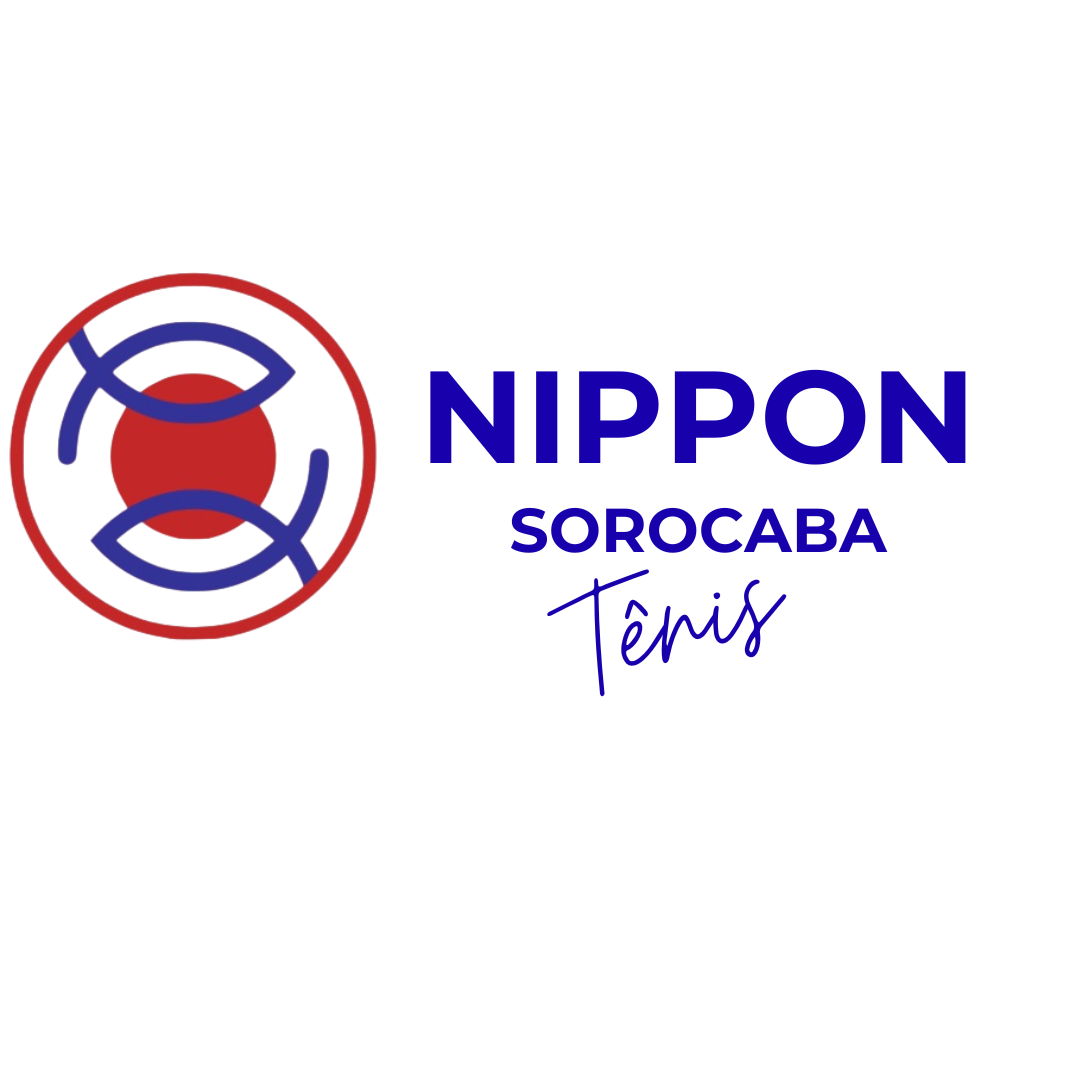
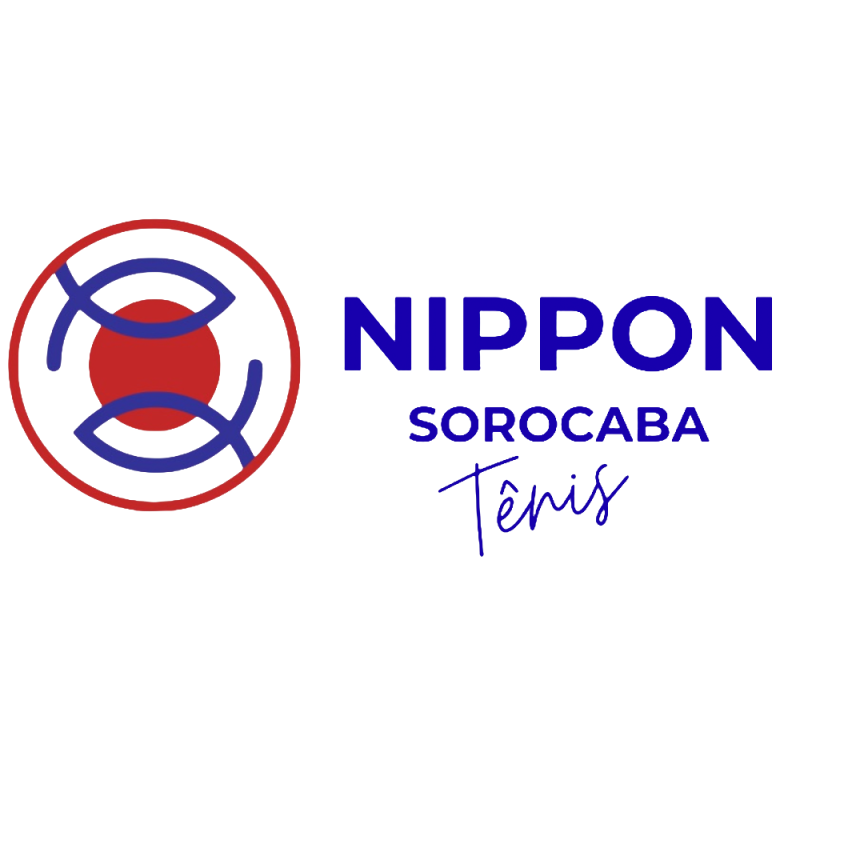
🚀 feat: a

diff --git a/src/components/HeroSection.tsx b/src/components/HeroSection.tsx
@@ -6,6 +6,8 @@
 import React from 'react';
 import { MapPin, Calendar, Compass, ArrowRight } from 'lucide-react';
 import { motion } from 'motion/react';
+import logo  from '../assets/nippon-sorocaba.png';
+import nippon  from '../assets/logo.png';
 
 interface HeroSectionProps {
   aerialImagePath: string;
@@ -112,13 +114,10 @@ export default function HeroSection({ aerialImagePath }: HeroSectionProps) {
         <div className="grid grid-cols-1 gap-8 md:grid-cols-3 md:items-center border-b border-gold/10 pb-10">
           {/* Left: Nippon Sorocaba Tênis Logo */}
           <div className="flex justify-center md:justify-start">
-            <NipponTennisLogo />
+            <img src={logo} />
           </div>
 
-          {/* Center: Torii 11º Intercolonial Logo */}
-          <div className="flex justify-center">
-            <ToriiIntercolonialLogo />
-          </div>
+          <img src={nippon} />
 
           {/* Right: Date Badge */}
           <div className="flex flex-col items-center text-center md:items-end md:text-right">